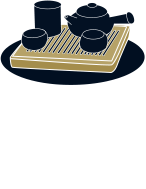
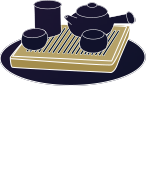
by darre

diff --git a/css/darre.css b/css/darre.css
@@ -1,8 +1,22 @@
 @charset "utf-8";
+body{
+  transform: scale(1.1);
+  -webkit-transform: scale(1.1);
+}
 .text_wrap{
   position: absolute;
   left: 28%;
   top: 10rem;
+  transform: scale(1.16);
+  -webkit-transform: scale(1.16);
+}
+.text_wrap .msg{
+  font-size: 0.18rem;
+  color: #fff;
+  line-height: 0.18rem;
+  position: absolute;
+  left: 0.12rem;
+  top: -0.24rem;
 }
 .text_wrap .text{
   position:relative;
@@ -16,7 +30,7 @@
   color:#fff;
 }
 .text_wrap .text i{
-  background-color:#010f21;
+  background-color:#1D1731;
   display:block;
   border-radius:50%;
   width:0.2rem;height:0.22rem;line-height:0.22rem;
@@ -34,7 +48,7 @@
 #logo{
   width: 1.78rem;
   position: absolute;
-    top: 1.84rem;
+  top: 1.14rem;
   left: 0.81rem;
 }
 #logo img{
@@ -45,7 +59,7 @@
   /*height: 0.88rem;*/
   position: absolute;
   right: 0.82rem;
-  top: 1.86rem;
+  top: 1rem;
   z-index:555;
 }
 #gamerule img{
@@ -84,4 +98,14 @@
 }
 .blur{
   filter:blur(0.2rem);
+}
+.findkey{
+  width: 100%;
+  position: absolute;
+  font-size: 0.31rem;
+  line-height: 0.31rem;
+  color: #fff;
+  text-align: center;
+  z-index: 56;
+  top: 2.6rem;
 }

diff --git a/index.html b/index.html
@@ -10,8 +10,6 @@
 <link rel="stylesheet" type="text/css" href="css/main.css">
 <link rel="stylesheet" type="text/css" href="css/darre.css">
 <link rel="stylesheet" type="text/css" href="css/popup.css">
-
-
 <body>
 <div id="popup_container" class="popup_container" style="position: fixed;width: 100%;height: 100%;background: url('images/bg.jpg');background-size: 100% 100%;z-index: 556">
     <div class="popup popup_big hide" id="popup_notcorrect">
@@ -87,6 +85,7 @@
 <div class="gamerule" id="gamerule">
     <img src="images/darre/howplay_06.png" alt=""/>
 </div>
+<div class="findkey">请找出藏在房间里的“想”字！</div>
 <!--
 作者：404877757@qq.com
 时间：2017-07-17
@@ -118,6 +117,7 @@
 </div>
 <!-- 想住就住4个字 -->
 <div class="text_wrap">
+    <div class="msg">已收集：</div>
     <div class="text">想<i></i></div>
     <div class="text">住<i></i></div>
     <div class="text">就<i></i></div>

diff --git a/index_blue.html b/index_blue.html
@@ -86,6 +86,7 @@
         <div class="gamerule" id="gamerule">
             <img src="images/darre/howplay_06.png" alt=""/>
         </div>
+        <div class="findkey">请找出藏在房间里的“住”字！</div>
         <!--<div class="light_Icon light_shake">-->
             <!--<img src="images/darre/lightIcon_11.png" alt="" />-->
         <!--</div>-->
@@ -124,6 +125,7 @@
         <!-- 想住就住4个字 -->
         <!--公用尾-->
         <div class="text_wrap">
+            <div class="msg">已收集：</div>
             <div class="text">想<i></i></div>
             <div class="text">住<i></i></div>
             <div class="text">就<i></i></div>

diff --git a/index_yellow.html b/index_yellow.html
@@ -88,7 +88,8 @@
     <div class="gamerule" id="gamerule">
         <img src="images/darre/howplay_06.png" alt=""/>
     </div>
-<!--<div class="light_Icon light_shake">-->
+    <div class="findkey">请找出藏在房间里的“住”字！</div>
+    <!--<div class="light_Icon light_shake">-->
 <!--<img src="images/darre/lightIcon_11.png" alt="" />-->
 <!--</div>-->
 <!--公用头结束-->
@@ -128,6 +129,7 @@ top: 6.16rem;-->
 
 <!--公用尾-->
 <div class="text_wrap">
+    <div class="msg">已收集：</div>
     <div class="text">想<i></i></div>
     <div class="text">住<i></i></div>
     <div class="text">就<i></i></div>
